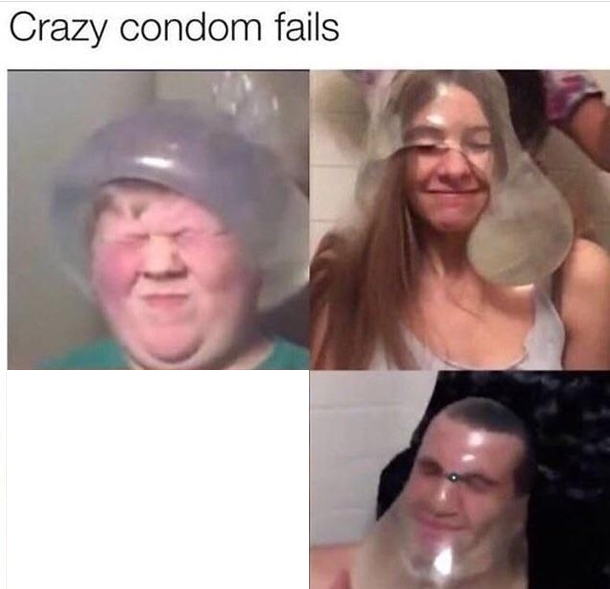
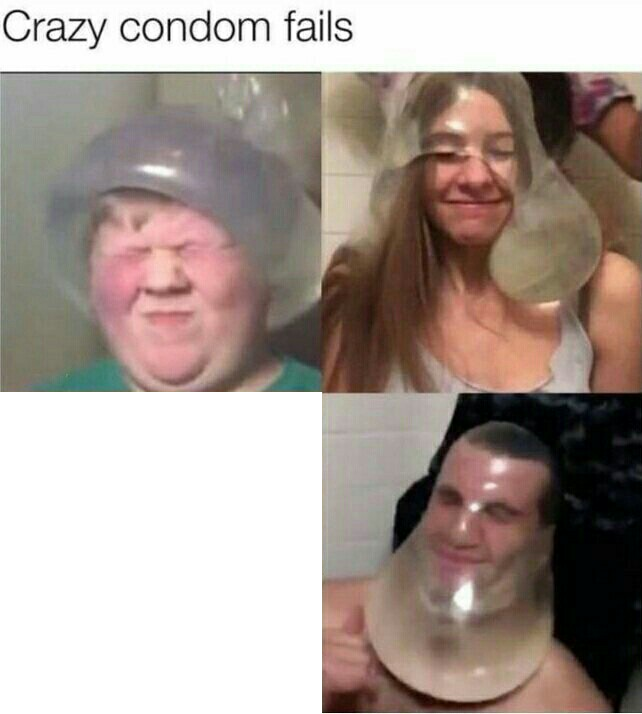
got better sauce

diff --git a/cogs/images.py b/cogs/images.py
@@ -257,7 +257,7 @@ class imagesCog:
                     filenum = 0
                     for image in images:
                         background = Image.open('imgsrc/condomfail.png')
-                        image = self.picInPic(image, background, (302, 219), (7, 370))
+                        image = self.picInPic(image, background, (322, 322), (0, 392))
 
                         output = BytesIO()
                         image.save(output, format="PNG")
